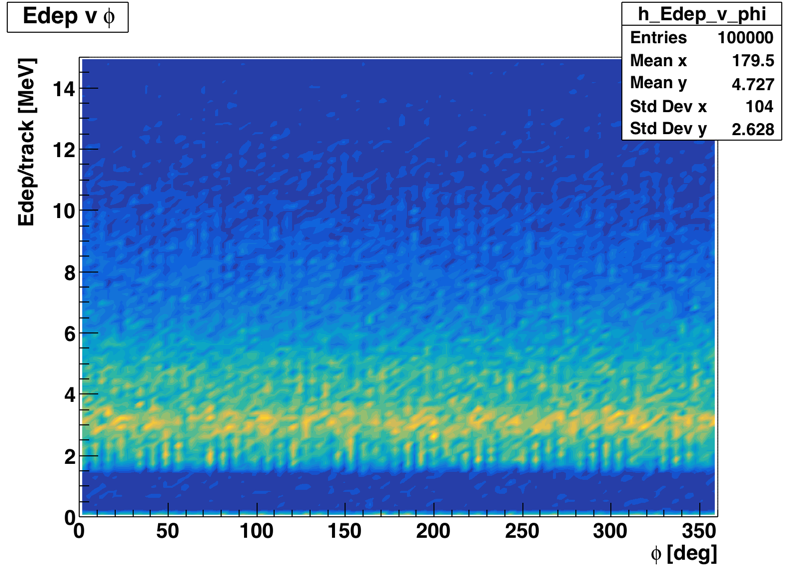
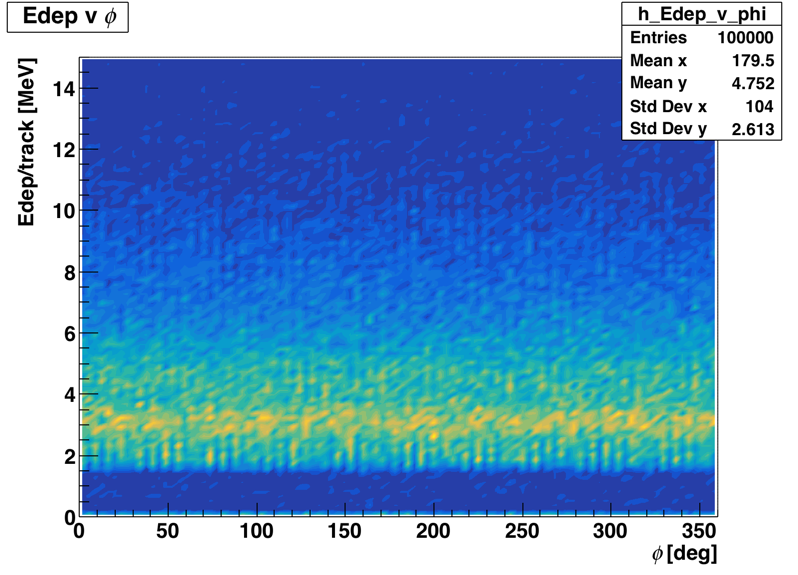
Add delta theta plot

diff --git a/Eloss.c b/Eloss.c
@@ -55,11 +55,15 @@ void Eloss()
     
     TCanvas *c3 = new TCanvas("c3","energy loss v theta",800,600);
     
+    TCanvas *c4 = new TCanvas("c4","delta theta",800,600);
+    
     TH1D *h_eLoss = new TH1D("h_eLoss","Energy loss",100,0,0);
     
-    TH2F *h_Edep_v_phi = new TH2F("h_Edep_v_phi","Eloss vs. Phi",100,0,360,100,0,15);
+    TH1D *h_dTheta = new TH1D("h_dTheta","#it{#Delta#theta}",100,0,0);
     
-    TH2F *h_Edep_v_theta = new TH2F("h_Edep_v_theta","Eloss vs. Theta",30,10,27,30,0,10);
+    TH2F *h_Edep_v_phi = new TH2F("h_Edep_v_phi","Eloss vs. #it{#phi}",100,0,360,100,0,15);
+    
+    TH2F *h_Edep_v_theta = new TH2F("h_Edep_v_theta","Eloss vs. #it{#theta}",30,10,27,30,0,10);
     
     int n=0;
     
@@ -84,9 +88,13 @@ void Eloss()
     std::vector<double>* Ypos = 0;
     std::vector<double>* Zpos = 0;
     
-    std::vector<double>* px = 0;
-    std::vector<double>* py = 0;
-    std::vector<double>* pz = 0;
+    std::vector<double>* px_in = 0;
+    std::vector<double>* py_in = 0;
+    std::vector<double>* pz_in = 0;
+    
+    std::vector<double>* px_out = 0;
+    std::vector<double>* py_out = 0;
+    std::vector<double>* pz_out = 0;
     
     TBranch *bcellID =  0;
     tree->SetBranchAddress("CellID",&CellID,&bcellID);
@@ -104,14 +112,24 @@ void Eloss()
     tree->SetBranchAddress("avg_z",&Zpos,&bZpos);
     
     // generated info
-    TBranch *bpx = 0;
-    gen_tree->SetBranchAddress("px",&px,&bpx);
+    TBranch *bpx_in = 0;
+    gen_tree->SetBranchAddress("px",&px_in,&bpx_in);
     
-    TBranch *bpy = 0;
-    gen_tree->SetBranchAddress("py",&py,&bpy);
+    TBranch *bpy_in = 0;
+    gen_tree->SetBranchAddress("py",&py_in,&bpy_in);
     
-    TBranch *bpz = 0;
-    gen_tree->SetBranchAddress("pz",&pz,&bpz);
+    TBranch *bpz_in = 0;
+    gen_tree->SetBranchAddress("pz",&pz_in,&bpz_in);
+    
+    // mom out info
+    TBranch *bpx_out = 0;
+    tree->SetBranchAddress("px",&px_out,&bpx_out);
+    
+    TBranch *bpy_out = 0;
+    tree->SetBranchAddress("py",&py_out,&bpy_out);
+    
+    TBranch *bpz_out = 0;
+    tree->SetBranchAddress("pz",&pz_out,&bpz_out);
     
     
     //________________________________________________________________________________________________
@@ -133,21 +151,29 @@ void Eloss()
         bYpos->GetEntry(tentry);
         bZpos->GetEntry(tentry);
         
+        bpx_out->GetEntry(tentry);
+        bpy_out->GetEntry(tentry);
+        bpz_out->GetEntry(tentry);
+        
         // Get generated mom info
-        bpx->GetEntry(gen_tentry);
-        bpy->GetEntry(gen_tentry);
-        bpz->GetEntry(gen_tentry);
+        bpx_in->GetEntry(gen_tentry);
+        bpy_in->GetEntry(gen_tentry);
+        bpz_in->GetEntry(gen_tentry);
         
         double totEloss=0;
         
-        double p_tot = 0;
+        double p_tot_in = 0;
+        double p_tot_out = 0;
+        
         double phi_track = 0;
         double theta_track = 0;
+        
+        double theta_out = 0;
         
         // ________________________________________ Reconstruction _______________________________________
         
         // find postition from Cell ID
-        for (UInt_t s = 0; s < CellID->size(); s++) {
+        for (UInt_t s = 0; s < Xpos->size(); s++) {
             
             // generated r position
             double r_pos=TMath::Sqrt(((Xpos->at(s))*(Xpos->at(s)))+((Ypos->at(s))*(Ypos->at(s))));
@@ -160,12 +186,18 @@ void Eloss()
         
         
         
-        p_tot = TMath::Sqrt((px->at(0)*px->at(0)) + (py->at(0)*py->at(0)) + (pz->at(0)*pz->at(0)));
-        phi_track = TMath::ATan2((py->at(0)),(px->at(0)))*(180/PI)+180.0;
-        theta_track = TMath::ACos(pz->at(0)/p_tot)*(180/PI);
+        p_tot_in = TMath::Sqrt((px_in->at(0)*px_in->at(0)) + (py_in->at(0)*py_in->at(0)) + (pz_in->at(0)*pz_in->at(0)));
+        
+        p_tot_out = TMath::Sqrt((px_out->back()*px_out->back()) + (py_out->back()*py_out->back()) + (pz_out->back()*pz_out->back()));
+        
+        phi_track = TMath::ATan2((py_in->at(0)),(px_in->at(0)))*(180/PI)+180.0;
+        theta_track = TMath::ACos(pz_in->at(0)/p_tot_in)*(180/PI);
+
+        theta_out = TMath::ACos(pz_in->back()/p_tot_out)*(180/PI);
         
         // if(totEloss != 0.0)
         h_eLoss->Fill(totEloss);
+        h_dTheta->Fill(theta_track-theta_out);
         h_Edep_v_phi->Fill(phi_track, totEloss);
         h_Edep_v_theta->Fill(theta_track, totEloss);
         
@@ -182,7 +214,7 @@ void Eloss()
     c1->cd();
     h_eLoss->Draw();
     //h_eLoss->SetLineColor(kBlue);
-    h_eLoss->GetXaxis()->SetTitle("Edep/track [MeV]");
+    h_eLoss->GetXaxis()->SetTitle("#it{E}_{dep}/track [MeV]");
     //h_r->GetYaxis()->SetTitle("Counts");
     c1->SaveAs("figs/Edep.png");
     // -------------------------------------------------------------------
@@ -190,9 +222,9 @@ void Eloss()
     // --------------------------- Eloss vs Phi ---------------------------
     c2->cd();
     h_Edep_v_phi->Draw("CONT4");
-    h_Edep_v_phi->SetTitle("Edep v #phi");
+    h_Edep_v_phi->SetTitle("Edep v #it{#phi}");
     //h_Edep_v_phi->SetLineColor(kBlue);
-    h_Edep_v_phi->GetXaxis()->SetTitle("#phi [deg]");
+    h_Edep_v_phi->GetXaxis()->SetTitle("#it{#phi} [deg]");
     h_Edep_v_phi->GetYaxis()->SetTitle("Edep/track [MeV]");
     c2->SaveAs("figs/Edep_v_phi.png");
     // -------------------------------------------------------------------
@@ -200,12 +232,21 @@ void Eloss()
     // --------------------------- Eloss vs Theta ---------------------------
     c3->cd();
     h_Edep_v_theta->Draw("CONTZ");
-    h_Edep_v_theta->SetTitle("Edep v #theta");
+    h_Edep_v_theta->SetTitle("Edep v #it{#theta}");
     //h_Edep_v_theta->SetLineColor(kBlue);
-    h_Edep_v_theta->GetXaxis()->SetTitle("#theta [deg]");
+    h_Edep_v_theta->GetXaxis()->SetTitle("#it{#theta} [deg]");
     h_Edep_v_theta->GetYaxis()->SetTitle("Edep/track [MeV]");
     c3->SaveAs("figs/Edep_v_theta.png");
     // -------------------------------------------------------------------
+    
+    // --------------------------- Change in theta histogram ---------------------------
+    c4->cd();
+    h_dTheta->Draw();
+    h_dTheta->GetXaxis()->SetTitle("#it{#theta}_{in} - #it{#theta}_{out} [deg]");
+    //h_r->GetYaxis()->SetTitle("Counts");
+    c4->SaveAs("figs/dTheta.png");
+    // -------------------------------------------------------------------
+    
     
     gPad->Update();
     
